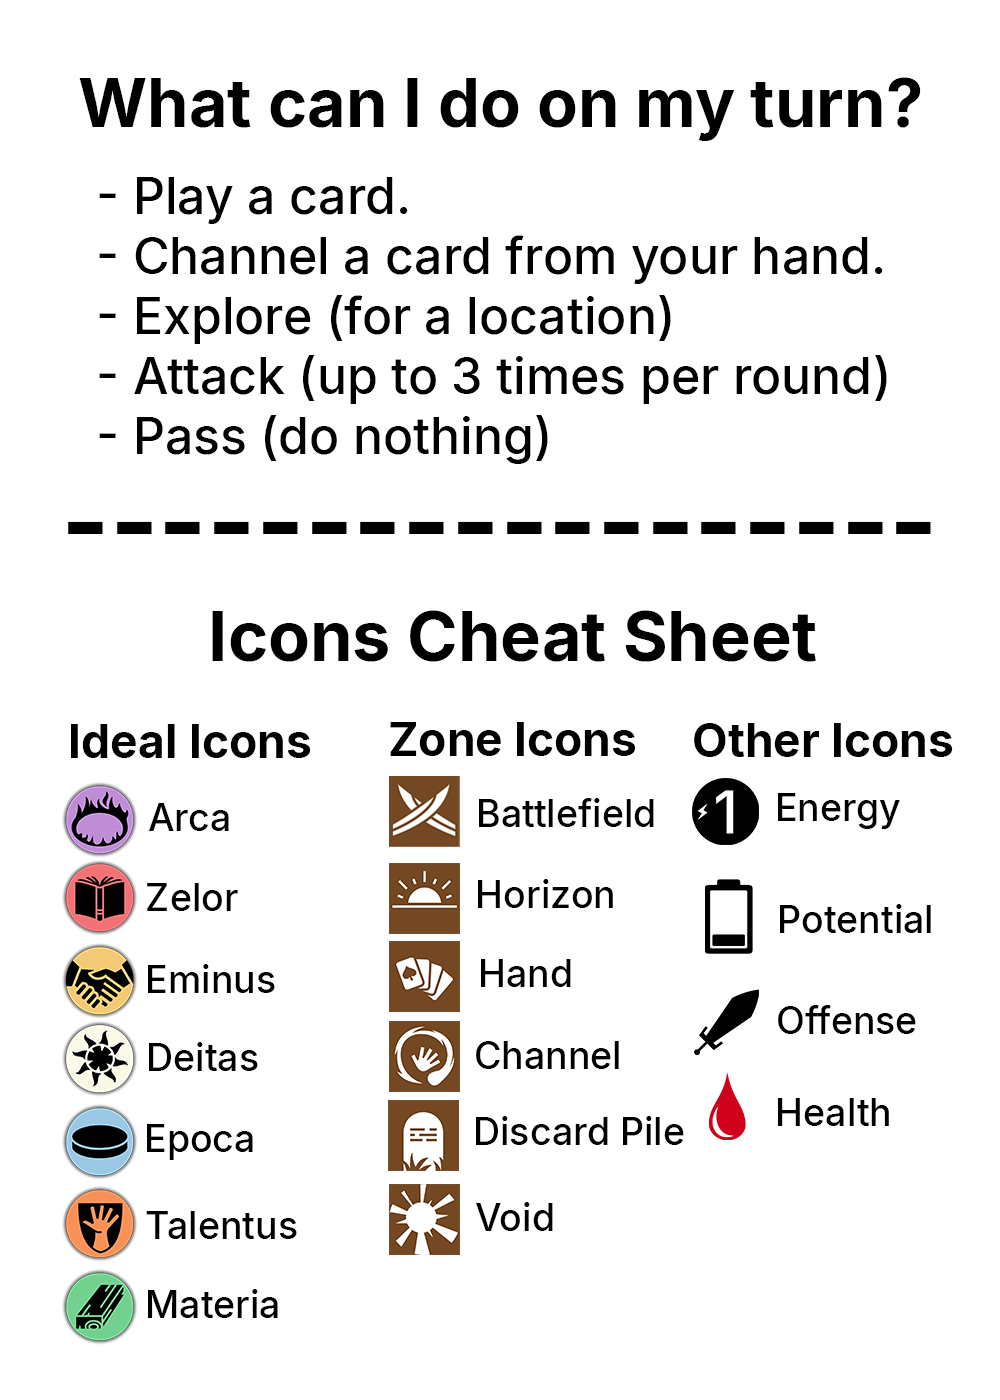
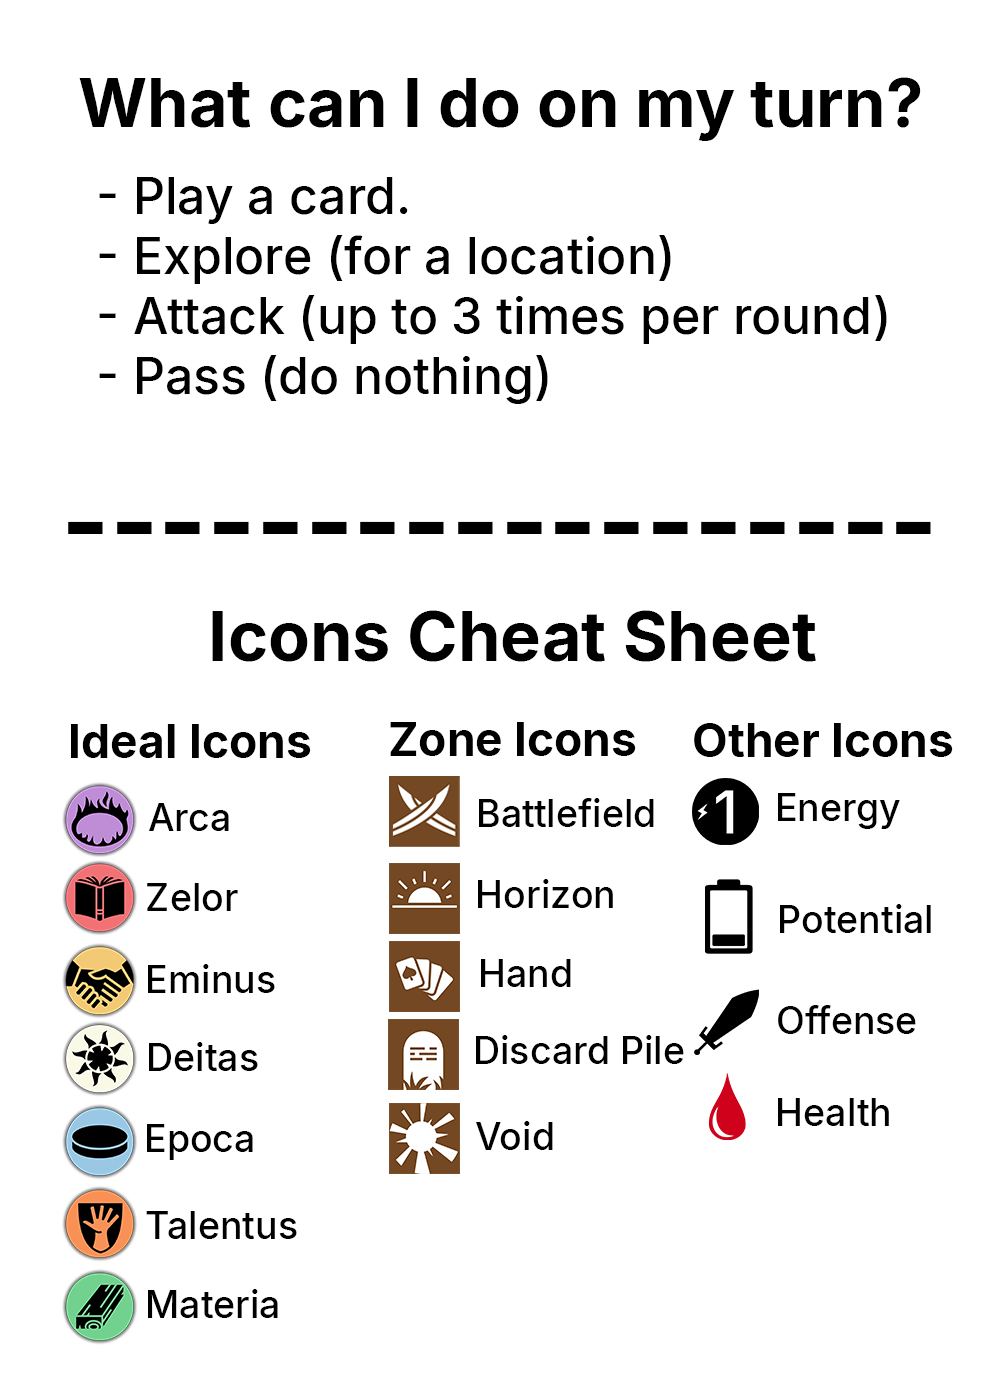
Script auto-commit Ski

Changed region(s): [[0.124, 0.1536, 0.899, 0.3379], [0.372, 0.7064, 0.682, 0.9214]]

diff --git a/content/main/Card Game/Card Game Rules Doc (before channel removed).md b/content/main/Card Game/Card Game Rules Doc (before channel removed).md
@@ -24,7 +24,7 @@ The game takes place in Atnia, the setting of Ciaḃan's Tabletop RPG. A short b
 ## Shared Round
 During each round players will take turns taking actions (mainly playing cards!). Only one player is the active player at a time, and only the active player can take actions. These actions include:
 - Play a card or ability of a card - See "Playing Cards"
-- Take universal actions such as passing or attacking.
+- Take universal actions such as passing, channeling cards, or attacking.
 	- Pass - By passing, the other player becomes the active player.
 
 ---
@@ -35,6 +35,7 @@ During each round players will take turns taking actions (mainly playing cards!)
 - Discard Pile - When cards are destroyed or discarded, they go here.
 - Horizon - Zone for cards & effects currently being played and not resolved yet.
 - Void - Zone used for some things.
+- Channel zone - Zone cards go after being channeled.
 ---
 ## Parts of a Card
 - **Name**
@@ -112,6 +113,9 @@ There is no hard gate on which cards you can include in your deck, you may inclu
 
 You can gain devotion to ideals primarily by playing locations.
 
+---
+## Channel Button
+Once per round, at slow infinite speed, you may push the channel button. This moves all cards from your hand to the channel zone face down. During the draw phase, before you draw your card for the round, put all your channeled cards on the bottom of your deck and draw that many cards.
 
 ---
 ## More Location Info and Exploration
@@ -131,7 +135,7 @@ The horizon gives you a chance to see what your opponent is doing and react to i
 
 To play a card, you must meet it's ideal devotion requirement and pay it's costs.
 
-When you play a card or ability, it goes to the horizon zone, and the player who did not play the card becomes the active player, who may then take an action or pass. Any new cards/effects put into the horizon zone are placed above other cards/abilities already there. Once any player passes after doing nothing or only taking actions at infinite speed, all cards in the horizon zone (unresolved cards) are resolved in order of top to bottom
+When you play a card or ability, it goes to the horizon zone, and the player who did not play the card becomes the active player, who may then take an action or pass. Any new cards/effects put into the horizon zone are placed above other cards/abilities already there. Once any player passes after doing nothing or only taking actions at infinite speed (such as channeling cards), all cards in the horizon zone (unresolved cards) are resolved in order of top to bottom
 
 When a card is played, it goes to the horizon. When it resolves, it goes to battlefield if it is a unit or item, the discard pile if it is a spell, and the location zone if it is a location. When a card in battlefield or horizon is destroyed (such as by having no more health left), it is put into the discard pile. Damage only occurs to cards in the battlefield and horizon.
 
@@ -147,8 +151,8 @@ The speed of a card is indicated in the top left in italicized text. Below is th
 - Fast speed cards can be played during combat, and can be played while there are other cards/effects already in the horizon.
 - If you play a burst speed card/action, it resolves immediately as you play it and you remain the active player and can continue playing cards. All burst speed cards and effects are always placed above and resolved before any fast or slow speed effects. No player can take actions while they are in the horizon, and they do not affect which player is or becomes the active player.
 	- You cannot commit burst speed cards along with other cards on the horizon as they will resolve instantly. Imagine it as dragging a card from your hand onto the board in a video game and as soon as you let go of the mouse it resolves.
-- ∞ speed cards and effects are the same as burst speed, except they do not count as having taken an action for the purposes of ending the round/main phase or resolving the cards on the horizon (for example if you have an ability of one of your cards trigger, then pass, if your opponent also passes the round *will* end.)
-	- ∞ speed is reserved mainly for triggered abilities on already played cards (effects that say 'whenever x happens, y happens' are assumed to be infinite speed unless otherwise stated).
+- ∞ speed cards and effects are the same as burst speed, except they do not count as having taken an action for the purposes of ending the round/main phase or resolving the cards on the horizon (for example if you play an infinite speed action such as channeling a card or have an ability of one of your cards trigger, then pass, if your opponent also passes the round *will* end.)
+	- ∞ speed is reserved mainly for channeling cards, exploring, and for triggered abilities on already played cards (effects that say 'whenever x happens, y happens' are assumed to be infinite speed unless otherwise stated).
 
 #### More info:
 - You may commit multiple fast/slow speed cards to the horizon at once, although speed rules still apply, and you must choose an order for the cards to be placed into the horizon. 
@@ -161,23 +165,24 @@ The speed of a card is indicated in the top left in italicized text. Below is th
 
 ## Round Phases
 1. Pre round
-	1. If it is not the first round of the game, the player who was not the starting player in the previous round is the new starting player.
-	2. Each player gets 1 energy for each of their energy counters.
-	3. Each player unflips all cards on their battlefield that are flipped (except for cards with 'static').
-	4. Move to next phase
+	1. If it is not the first round of the game, the player who did not ebd the previous round becomes the first/starting player (the player who passed first in double pass. This will be whoever didn't take the last non infinite speed action before the round ended (channeling and abilities marked on cards as infinite speed are the only infinite speed actions)).
+	2. Each player gets 1 additional energy counter
+	3. Each player gets 1 energy for each of their energy counters.
+	4. Each player unflips all cards on their battlefield that are flipped (locations do not unflip at round start).
+	5. Move to next phase
 2. Round Start
 	1. If an effect refers to round start, it happens here.
 	2. Once all effects are resolved / there are no unresolved effects, move to the next phase.
 3. Main phase
 	1. The first player becomes the active player (unless otherwise specified).
-	2. When both players pass in a row after doing nothing or only taking actions at infinite speed, move to the next phase.
+	2. When both players pass in a row after doing nothing or only taking actions at infinite speed (such as channeling cards), move to the next phase.
 	- This is the primary phase where players actually play the game, along with combat which players can enter from the main phase.
 4. Round End
 	1. If an effect refers to round end, it happens here.
 	2. Once all effects are resolved / there are no unresolved effects, move to the next phase.
 5. Draw Phase
-	1. Each player simultaneously chooses whether they would like to put the cards in their hand on the bottom of their deck (in a random order). 
-	2. Each player draws cards equal to 1+ the number of cards they just put on the bottom of their deck.
+	1. Each player puts all their channeled cards on bottom of their deck in a random order.
+	2. Each player draws cards equal to 1+ the number of channeled cards they had.
 	3. Begin next round
 - Combat phase
 	- See "Combat"
@@ -215,6 +220,15 @@ Here is some additional info:
 - The brown symbols in the description box of cards are zone symbols. A zone icon may indicate which zones a card or effect can target, or which cards in what zones are relevant to it. 
 
 ---
+## Kinds of game objects
+- Card - Cards!
+- Ability - Effects created by cards
+	- Triggered ability - Occurs automatically when indicated by the card they are on. Is infinite speed unless otherwise noted.
+	- Skill - Ability of a card that is activated by the player similar to playing a card.
+- Universal Action - Actions such as passing, channeling cards, or entering combat, which are granted to players by the game rules rather than cards.
+- Player health / life total
+- 
+---
 ## Extra Notes
 - Damage dealt to cards in horizon/battlefield is permanent (until they leave). 
 	- If a card is given a health buff, then takes damage, then the buff goes away, the full extent of the health buff is taken away still. Whenever a health buff goes away, the unit effectively takes that much damage.
@@ -244,17 +258,6 @@ Here is some additional info:
 	- If multiple cards would enter a player's battlefield at once, they enter with the largest card on the left and smallest card on the right (determined by offense, tie broken by health, tie broken by base energy cost. After base energy cost is a tie, in paper players decide the order, and online it goes by alphabetical order of card name (earlier in the alphabet on the left))
 - If multiple effects that require targets to be chosen are put into the horizon simultaneously, targets must be chosen for the bottom most effect(s) first.
 - If multiple cards are in one board space (such as with weapons), the card on the bottom (the weapon) is assumed to be to the right of the card on top.
-
-
----
-## Kinds of things
-- Card - Cards!
-- Ability - Effects created by cards
-	- Triggered ability - Occurs automatically when indicated by the card they are on. Is infinite speed unless otherwise noted.
-	- Skill - Ability of a card that is activated by the player similar to playing a card.
-- Universal Action - Actions such as passing or entering combat, which are granted to players by the game rules rather than cards.
-- Player health / life total
-- 
 
 ## Info not relevant to set 1:
 
